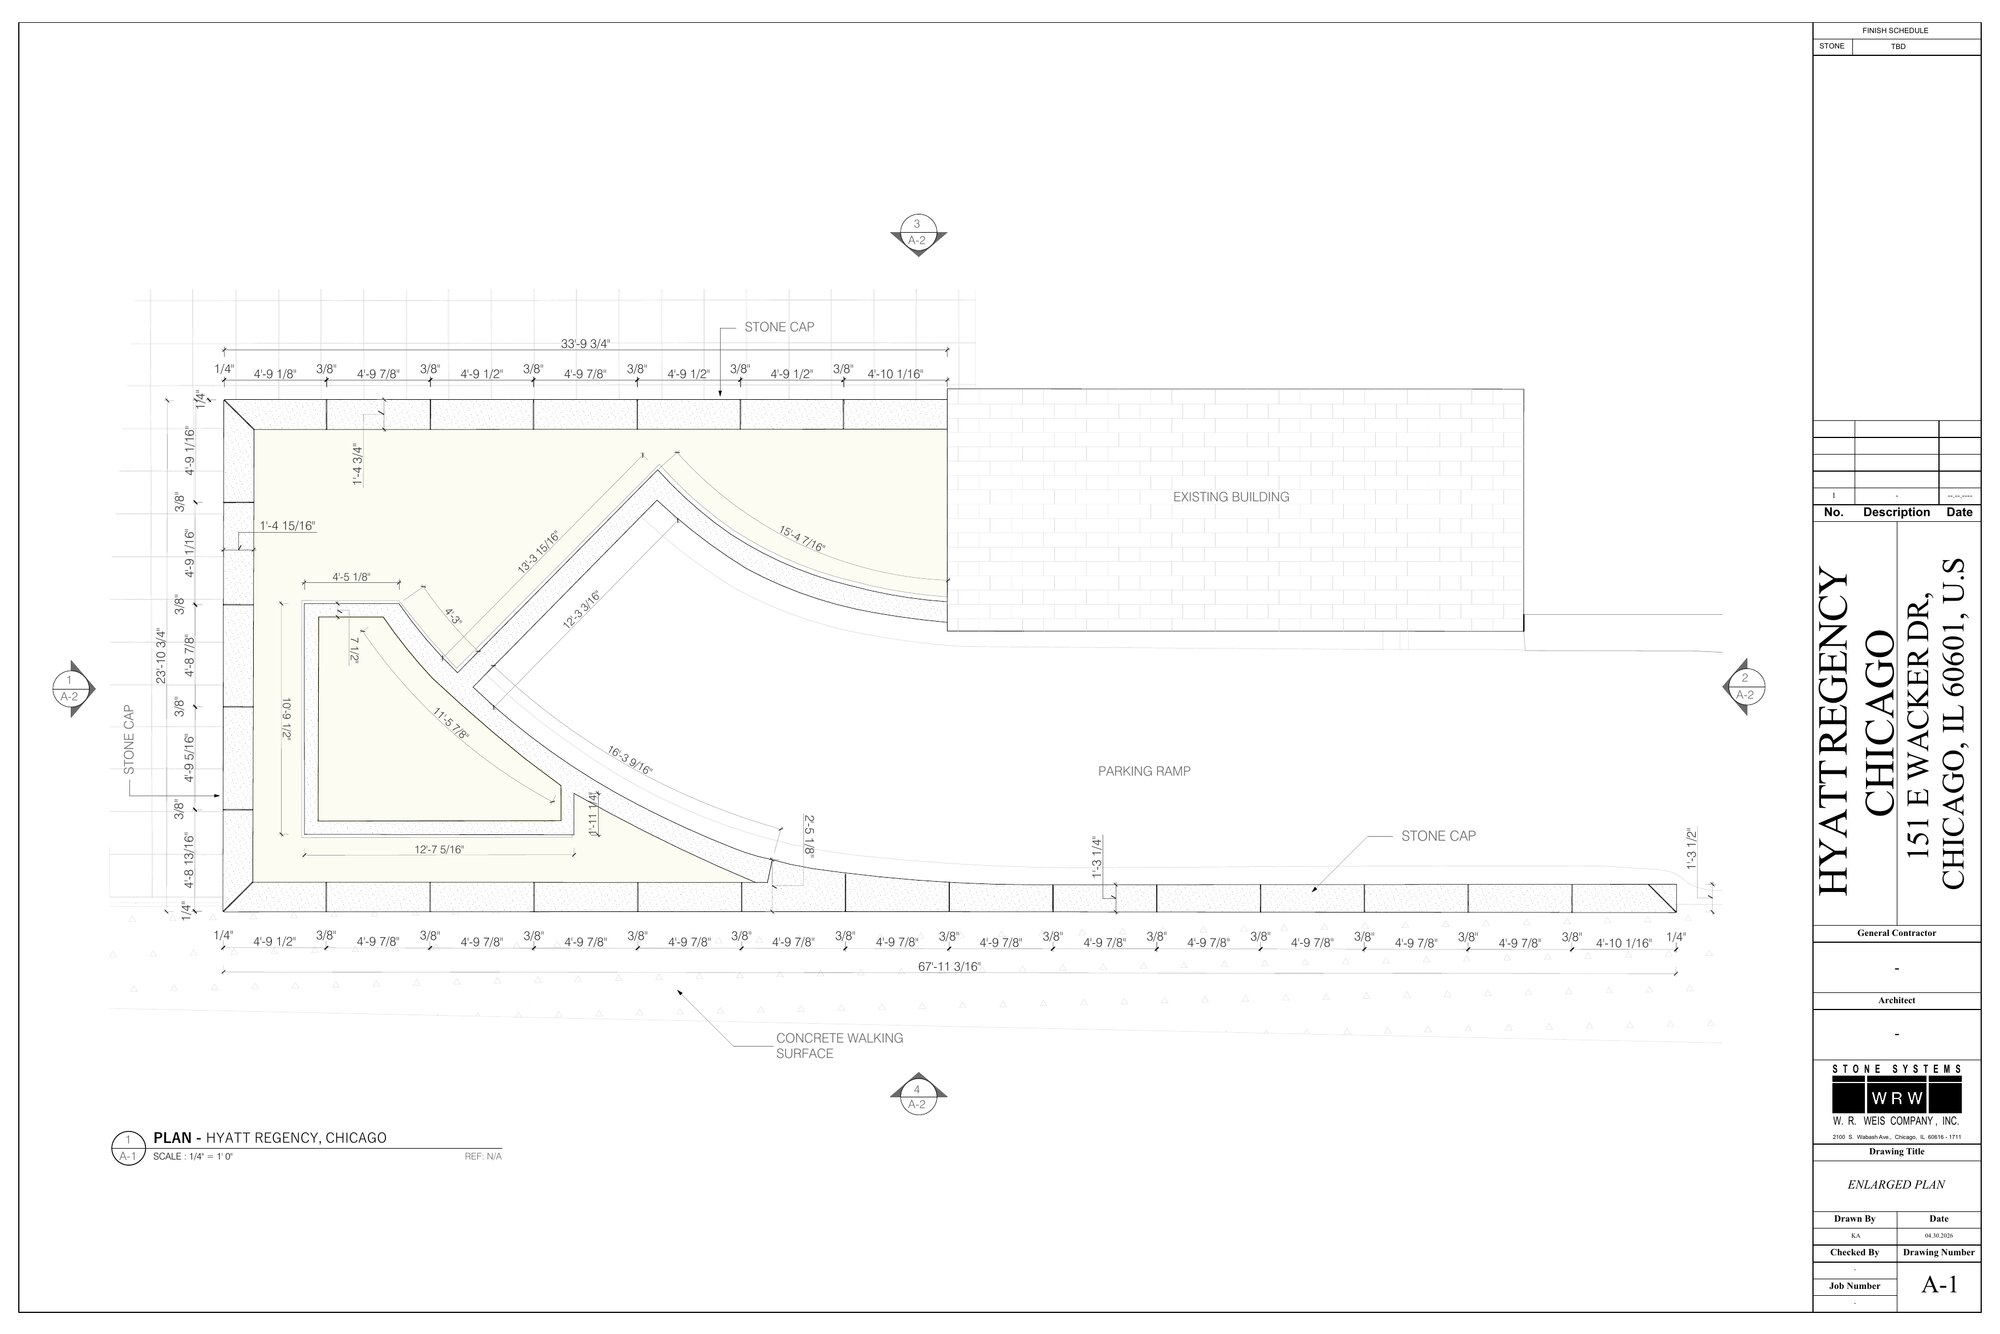
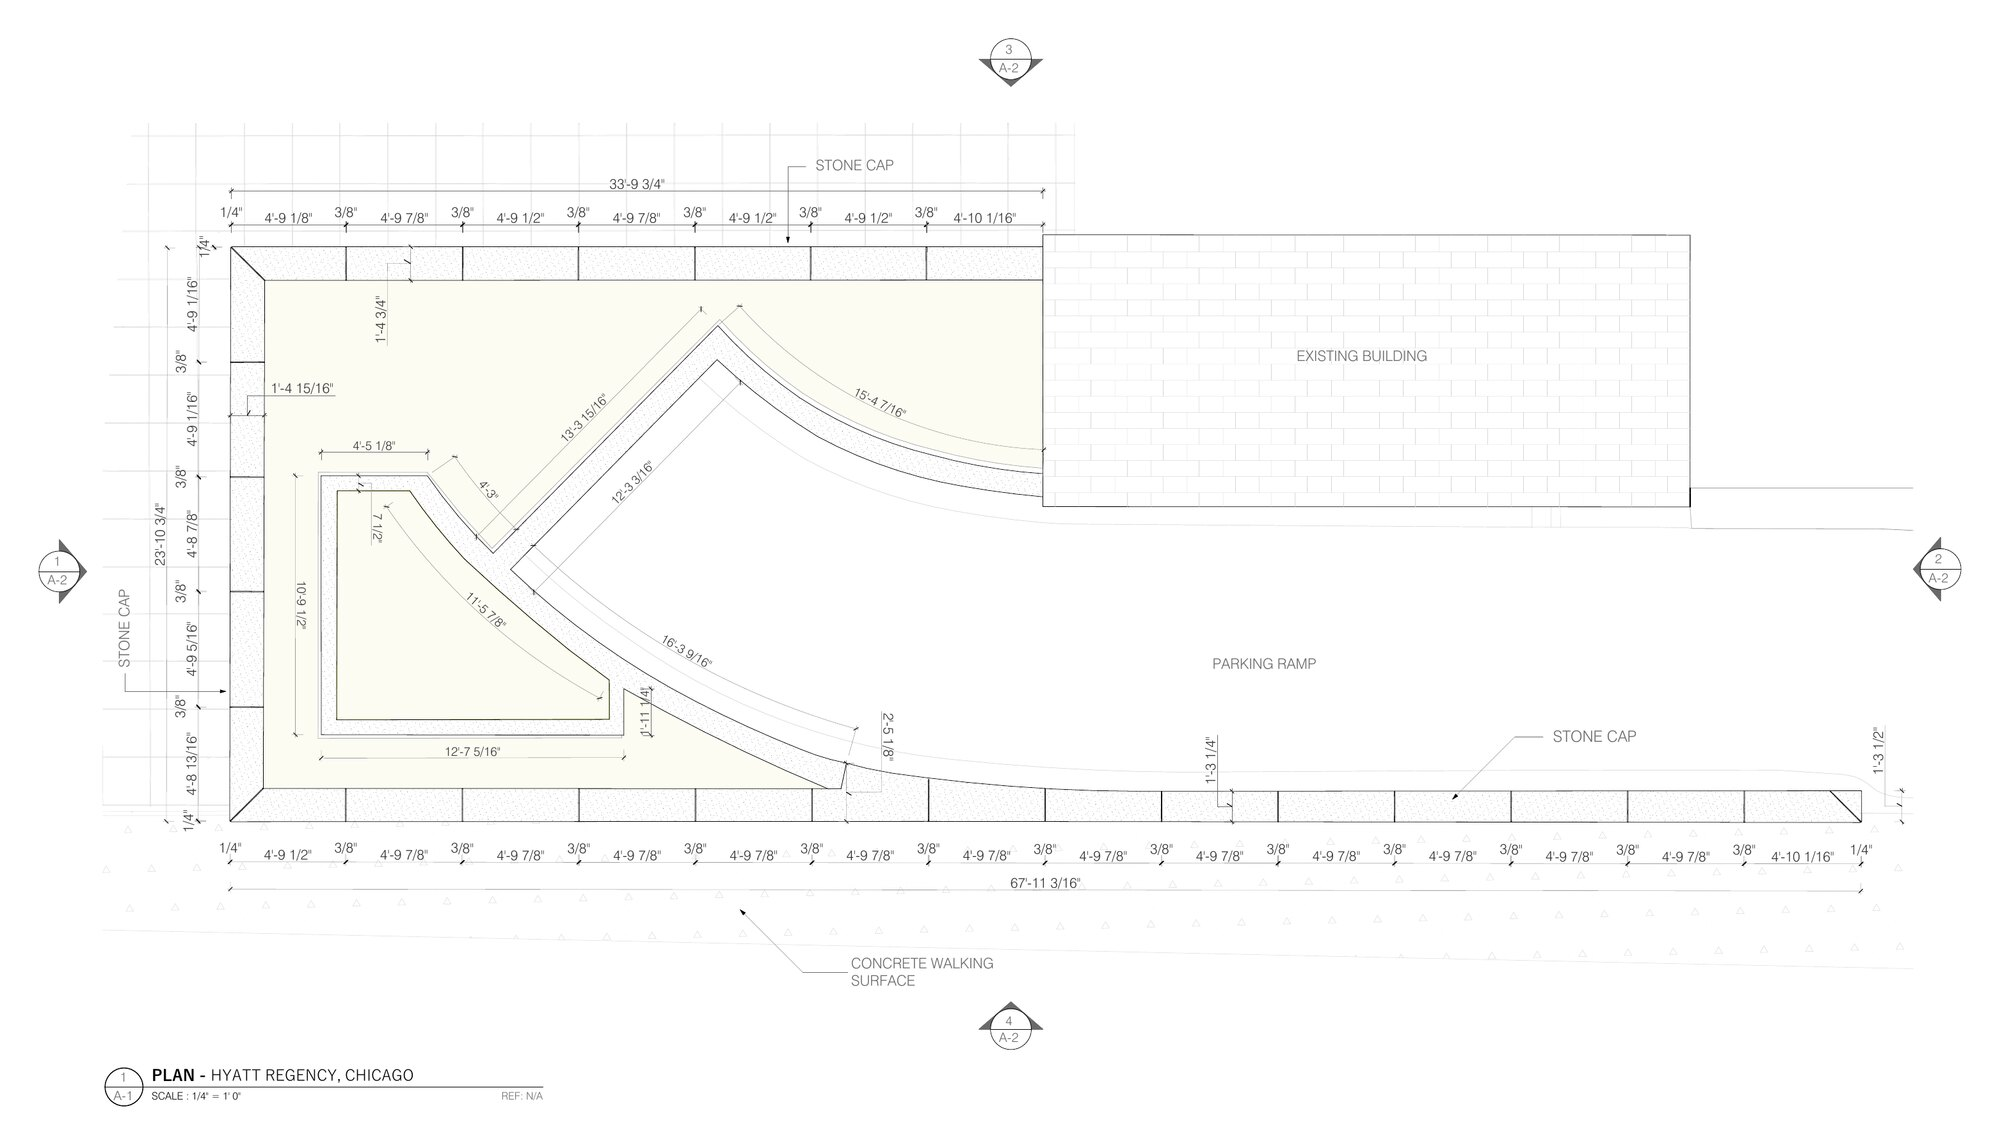
Hyatt: remove title-block information from the drawing sheets
Crops the title block and sheet border off the enlarged plan and
elevations sheets, and drops the client name, sheet numbers and date
taken from them.

Claude-Session: https://claude.ai/code/session_011SRKs6sdjGeEEZkMoVuVf3

diff --git a/projects/hyatt-regency-chicago.html b/projects/hyatt-regency-chicago.html
@@ -61,7 +61,7 @@
       
     </figure></div>
     <div class="project-info">
-      <dl class="facts reveal"><dt>Location</dt><dd>Chicago, IL</dd><dt>Year</dt><dd>2026</dd><dt>Status</dt><dd>Shop drawings, April 2026</dd><dt>Scope</dt><dd>Scan-to-BIM / Existing Conditions / Stone Cap Shop Drawings</dd><dt>Client</dt><dd>W. R. Weis Company, Inc.</dd><dt>Role</dt><dd>Scan-to-BIM modelling, drawing set</dd></dl>
+      <dl class="facts reveal"><dt>Location</dt><dd>Chicago, IL</dd><dt>Year</dt><dd>2026</dd><dt>Status</dt><dd>Shop drawings</dd><dt>Scope</dt><dd>Scan-to-BIM / Existing Conditions / Stone Cap Shop Drawings</dd><dt>Role</dt><dd>Scan-to-BIM modelling, drawing set</dd></dl>
       <div class="project-text reveal"><p>Scan-to-BIM documentation and shop drawings for the outdoor plaza of the Hyatt Regency Chicago at 151 E Wacker Drive. Working from laser-scanning point clouds, I modelled the existing planters, retaining walls, stairs, railings and paving in Archicad and checked the model against the scan to capture the real conditions on site.</p><p>From the coordinated model I produced the drawing set for the new stone caps on the planter walls — an enlarged, fully dimensioned plan and the north, south, east and west elevations at 1/4" = 1'-0" — together with perspectives, a top view and scan elevations marking the work areas.</p></div>
     </div>
     <div class="project-gallery">
@@ -95,11 +95,11 @@
     <figure class="reveal"><img src="images/hyatt-12.jpg" alt="Area A plan with dimensions" loading="lazy">
       <figcaption>Area A plan with dimensions</figcaption>
     </figure>
-    <figure class="reveal"><img src="images/hyatt-sheet-a1.jpg" alt="Sheet A-1 — Enlarged plan" loading="lazy">
-      <figcaption>Sheet A-1 — Enlarged plan</figcaption>
+    <figure class="reveal"><img src="images/hyatt-sheet-a1.jpg" alt="Enlarged plan" loading="lazy">
+      <figcaption>Enlarged plan</figcaption>
     </figure>
-    <figure class="reveal"><img src="images/hyatt-sheet-a2.jpg" alt="Sheet A-2 — Elevations" loading="lazy">
-      <figcaption>Sheet A-2 — Elevations</figcaption>
+    <figure class="reveal"><img src="images/hyatt-sheet-a2.jpg" alt="Elevations" loading="lazy">
+      <figcaption>Elevations</figcaption>
     </figure></div>
     <nav class="project-nav" aria-label="More projects">
       <a href="/projects/geodes-office"><span class="label">Previous</span>Geodes Office</a>

diff --git a/content.js b/content.js
@@ -77,10 +77,9 @@ window.PORTFOLIO = {
       category: "Documentation",
       year: "2026",
       location: "Chicago, IL",
-      status: "Shop drawings, April 2026",
+      status: "Shop drawings",
       scope: "Scan-to-BIM / Existing Conditions / Stone Cap Shop Drawings",
       role: "Scan-to-BIM modelling, drawing set",
-      client: "W. R. Weis Company, Inc.",
       summary: "Scan-to-BIM documentation and stone-cap shop drawings for the outdoor plaza of the Hyatt Regency Chicago on East Wacker Drive.",
       description: [
         "Scan-to-BIM documentation and shop drawings for the outdoor plaza of the Hyatt Regency Chicago at 151 E Wacker Drive. Working from laser-scanning point clouds, I modelled the existing planters, retaining walls, stairs, railings and paving in Archicad and checked the model against the scan to capture the real conditions on site.",
@@ -98,8 +97,8 @@ window.PORTFOLIO = {
         { src: "images/hyatt-11.jpg", caption: "Line perspective — tower and plaza" },
         { src: "images/hyatt-3.jpg", caption: "Line perspective — plaza" },
         { src: "images/hyatt-12.jpg", caption: "Area A plan with dimensions" },
-        { src: "images/hyatt-sheet-a1.jpg", caption: "Sheet A-1 — Enlarged plan" },
-        { src: "images/hyatt-sheet-a2.jpg", caption: "Sheet A-2 — Elevations" },
+        { src: "images/hyatt-sheet-a1.jpg", caption: "Enlarged plan" },
+        { src: "images/hyatt-sheet-a2.jpg", caption: "Elevations" },
       ],
     },
     {
